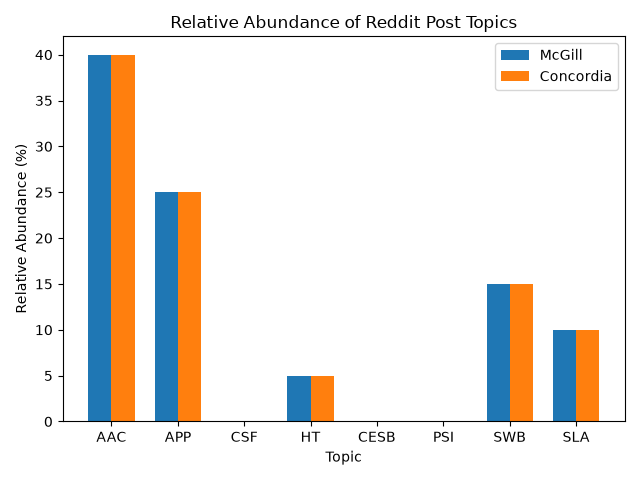
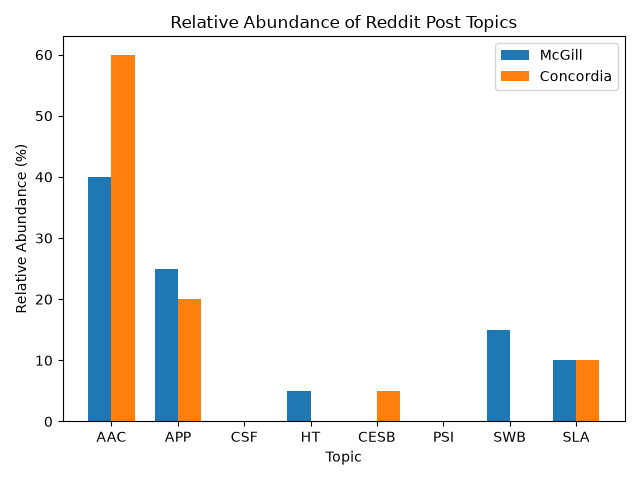
fixed plot

diff --git a/scripts/plot_results.py b/scripts/plot_results.py
@@ -17,7 +17,7 @@ def count_categories(filename):
     return counts
 
 mcgill = count_categories("../data/final_labeled_dataset_mcgill.tsv")
-concordia = count_categories("../data/final_labeled_dataset_mcgill.tsv")
+concordia = count_categories("../data/final_labeled_dataset_concordia.tsv")
 
 # Calculating total number of posts in each:
 mcgill_total = sum(mcgill.values())
